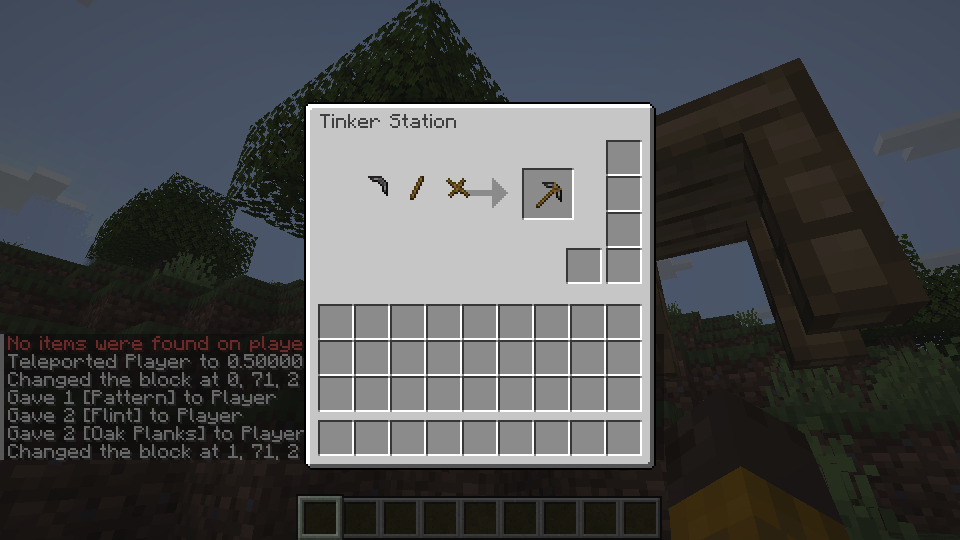
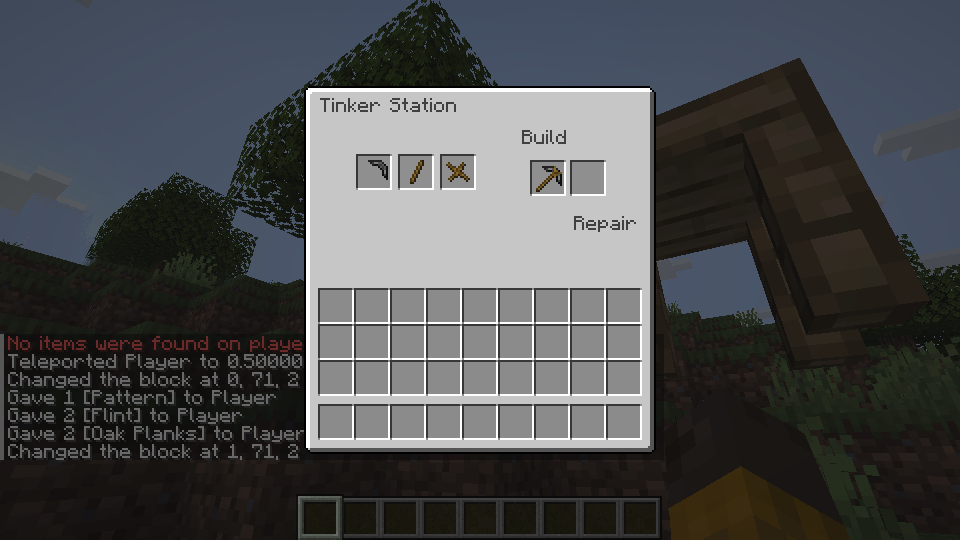
Correct station panel geometry and atlas slot rendering

Changed region(s): [[0.3125, 0.237, 0.6875, 0.8889], [0.3125, 0.1481, 0.6875, 0.237], [0.5312, 0.237, 0.5938, 0.2667]]

diff --git a/tests/game/stations.py b/tests/game/stations.py
@@ -14,20 +14,29 @@ def click(slot):g.call('click-slot',str(slot));g.call('wait','3')
 def hotbar(item):return next(x['slot'] for x in g.call('inventory')['hotbar'] if x.get('item')==item)
 def carried():return g.call('menu')['carried'] or {}
 def cmd(value):return g.call('command',value)
+def hover(slot, name):
+ node = next(n for n in g.call('ui')['widgets'] if n['id'] == f'slot-{slot}')
+ x,y,_,_ = node['bounds']
+ g.call('scroll-at',str(x+8),str(y+8),'0');g.call('wait','5')
+ g.call('screenshot',str(run/name))
 try:
  g.ready()
  for command in ('clear @s','tp @s 0.5 71 0.5','setblock 0 71 2 tconstruct:part_builder','give @s tconstruct:pattern 1','give @s minecraft:flint 2','give @s minecraft:oak_planks 2'):cmd(command)
  time.sleep(1);g.call('interact','0','71','2')
+ g.call('screenshot',str(run/'part-builder-empty.png'))
  click(hotbar('tconstruct:pattern'));click(300);click(hotbar('minecraft:flint'));click(301)
  g.call('screenshot',str(run/'part-builder.png'))
+ hover(301,'part-builder-hover.png')
  click(324);assert carried().get('item')=='tconstruct:flint_pick_head'
  click(324);assert carried().get('count')==1
  click(3);click(hotbar('minecraft:oak_planks'));click(301)
  click(325);assert carried().get('item')=='tconstruct:wood_handle';click(4)
  click(326);assert carried().get('item')=='tconstruct:wood_binding';click(5)
  g.call('close');cmd('setblock 1 71 2 tconstruct:tinker_station');time.sleep(1);g.call('interact','1','71','2')
+ g.call('screenshot',str(run/'tinker-station-empty.png'))
  for target,item in [(300,'tconstruct:flint_pick_head'),(301,'tconstruct:wood_handle'),(302,'tconstruct:wood_binding')]:click(hotbar(item));click(target)
  g.call('screenshot',str(run/'tinker-station.png'))
+ hover(300,'tinker-station-hover.png')
  click(324);assert carried().get('item')=='tconstruct:flint_pickaxe';click(0);g.call('close')
  cmd("item replace entity @s weapon.mainhand with tconstruct:flint_pickaxe[minecraft:damage=84,minecraft:custom_name='\"Blade\"',minecraft:custom_data={proof:17}]")
  cmd('give @s minecraft:flint 2');g.call('wait','10');held=g.call('inventory')['held'];print('before repair',held,flush=True)
@@ -37,7 +46,8 @@ try:
  g.call('wait','10');held=g.call('inventory')['held'];print('after repair',held,flush=True);assert 'Blade' in held.get('components','') and 'proof' in held.get('components','')
  g.call('close');g.call('save');g.stop();g.cleanup();g=Game(a,run,'Player',in_frame=a.in_frame,resume=True);g.ready()
  held=g.call('inventory')['held'];assert held.get('damage',0)==0 and 'Blade' in held.get('components','') and 'proof' in held.get('components','')
- g.call('interact','0','71','2');items={s['slot']:s['stack'] for s in g.call('menu')['slots']}
+ g.call('interact','0','71','2');g.call('wait','10');g.call('screenshot',str(run/'part-builder-reopened.png'))
+ items={s['slot']:s['stack'] for s in g.call('menu')['slots']}
  assert items[300]['item']=='tconstruct:pattern'
  g.stop();print('PASS station assembly, repair, data and save/reload',flush=True)
 finally:g.cleanup()

diff --git a/mixins/tconstruct/part-draw.rs b/mixins/tconstruct/part-draw.rs
@@ -3,9 +3,27 @@ fn draw_tconstruct_station(game: &crate::game::Game<'_>, batch: &mut horizon_cli
     let atlas = &game.gui.atlas;
     let texture = if station { "gui/tconstruct_tinker_station" } else { "gui/tconstruct_part_builder" };
     batch.sprite_region(atlas, texture, [ox, oy, 176.0, 184.0], 256.0, 256.0);
+    // The atlas contains reusable elements outside the 176x184 background.
+    let part = |batch: &mut horizon_client::hud::HudBatch, sx: f32, sy: f32, x: f32, y: f32, color: u32| {
+        if let Some(mut r) = atlas.sprites.get(texture).copied() {
+            let (du, dv) = ((r.u1 - r.u0) / r.w as f32, (r.v1 - r.v0) / r.h as f32);
+            r.u0 += sx * du; r.v0 += sy * dv;
+            r.u1 = r.u0 + 18.0 * du; r.v1 = r.v0 + 18.0 * dv;
+            batch.rect_uv(ox + x, oy + y, 18.0, 18.0, r, color);
+        }
+    };
     let title = if station { "Tinker Station" } else { "Part Builder" };
     batch.text(atlas, title, ox + 8.0, oy + 6.0, horizon_client::hud::rgba(64, 64, 64, 255), false);
     if station {
+        // The original atlas uses separately drawn slot backgrounds. Clear its
+        // unused fixed result/side-slot artwork before laying out our two actions.
+        batch.fill(atlas, ox + 77.0, oy + 16.0, 96.0, 79.0, horizon_client::hud::rgba(198, 198, 198, 255));
+        for (x, y) in [(26.0, 34.0), (47.0, 34.0), (68.0, 34.0), (113.0, 37.0), (133.0, 37.0)] {
+            part(batch, 176.0, 0.0, x, y, horizon_client::hud::rgba(255, 255, 255, 71));
+            part(batch, 194.0, 0.0, x, y, u32::MAX);
+        }
+        batch.text(atlas, "Build", ox + 109.0, oy + 22.0, horizon_client::hud::rgba(64, 64, 64, 255), false);
+        batch.text(atlas, "Repair", ox + 135.0, oy + 65.0, horizon_client::hud::rgba(64, 64, 64, 255), false);
         if let Some(horizon_client::containers::BlockEntity::Chest(slots)) = game.container_kind() {
             for (x, action) in [(114.0, 24), (134.0, 25)] {
                 let mut preview = slots.clone();
@@ -16,8 +34,9 @@ fn draw_tconstruct_station(game: &crate::game::Game<'_>, batch: &mut horizon_cli
             }
         }
     } else {
-        for (x, id) in [(60.0, "tconstruct:flint_pick_head"), (78.0, "tconstruct:wood_handle"), (96.0, "tconstruct:wood_binding")] {
-            game.draw_item(batch, &horizon_client::items::ItemStack::new(id, 1), ox + x, oy + 18.0);
+        for x in [51.0, 69.0, 87.0] { part(batch, 176.0, 15.0, x, 15.0, u32::MAX); }
+        for (x, id) in [(52.0, "tconstruct:flint_pick_head"), (70.0, "tconstruct:wood_handle"), (88.0, "tconstruct:wood_binding")] {
+            game.draw_item(batch, &horizon_client::items::ItemStack::new(id, 1), ox + x, oy + 16.0);
         }
     }
     std::ops::ControlFlow::Break(())

diff --git a/tests/game/harness.py b/tests/game/harness.py
@@ -12,9 +12,10 @@ class Game:
                         HORIZON_TELEMETRY_URL='off', RUST_MIN_STACK='16777216')
         for key in ('HORIZON_HOME','HORIZON_LAUNCHER_HOME','XDG_DATA_HOME','XDG_CONFIG_HOME'):
             folder = self.root / key.lower(); folder.mkdir(exist_ok=resume); self.env[key] = str(folder)
+        width, height = os.environ.get('HORIZON_TEST_SIZE', '960x540').split('x', 1)
         command = [str(args.game.resolve()), '--resources', str(args.resources.resolve()),
                    '--control-socket', str(self.endpoint), '--test-terrain', '--render-distance', '2',
-                   '--offscreen', '--width', '960', '--height', '540', '--name', label]
+                   '--offscreen', '--width', width, '--height', height, '--name', label]
         command += ['--server', server] if server else ['--world','Probe','--seed','42','--creative']
         if in_frame: command.append('--in-frame')
         self.log = (self.root / 'game.log').open('a' if resume else 'w')

diff --git a/mixins/tconstruct/part-layout.rs b/mixins/tconstruct/part-layout.rs
@@ -6,9 +6,9 @@ fn tconstruct_layout(game: &crate::game::Game<'_>, slot: usize) -> std::ops::Con
         300 => if station { (27.0, 35.0) } else { (8.0, 43.0) },
         301 => if station { (48.0, 35.0) } else { (29.0, 43.0) },
         302 if station => (69.0, 35.0),
-        324 => if station { (114.0, 38.0) } else { (60.0, 18.0) },
-        325 => if station { (134.0, 38.0) } else { (78.0, 18.0) },
-        326 if !station => (96.0, 18.0),
+        324 => if station { (114.0, 38.0) } else { (52.0, 16.0) },
+        325 => if station { (134.0, 38.0) } else { (70.0, 16.0) },
+        326 if !station => (88.0, 16.0),
         302..=326 => (-10000.0, -10000.0),
         _ => return std::ops::ControlFlow::Continue(()),
     };

diff --git a/tests/game/race_station.py b/tests/game/race_station.py
@@ -25,6 +25,8 @@ try:
   print(g.label,'interact',g.call('interact','0','71','2'),flush=True)
  click(h,0);click(h,300);click(h,1);click(h,301);click(h,2);click(h,302)
  wait('inputs shared',lambda:all(slots(g).get(300,{}).get('item')=='tconstruct:flint_pick_head' and slots(g).get(301,{}).get('item')=='tconstruct:wood_handle' and slots(g).get(302,{}).get('item')=='tconstruct:wood_binding' for g in games))
+ h.call('wait','20');q.call('wait','20')
+ h.call('screenshot',str(run/'host-station.png'));q.call('screenshot',str(run/'guest-station.png'))
  with ThreadPoolExecutor(max_workers=2) as pool:
   futures=[pool.submit(click,g,324) for g in games]
   for f in futures:f.result()

diff --git a/mixins/tconstruct/station-height.rs b/mixins/tconstruct/station-height.rs
@@ -1,0 +1,7 @@
+fn tconstruct_screen_height(game: &crate::game::Game<'_>) -> std::ops::ControlFlow<f32> {
+    if crate::game::tconstruct_ui::kind(game).is_some() {
+        std::ops::ControlFlow::Break(184.0)
+    } else {
+        std::ops::ControlFlow::Continue(())
+    }
+}

diff --git a/docs/validation.md b/docs/validation.md
@@ -76,3 +76,16 @@ integrated-server and in-frame modes, and the fixture message was present in
 each game log. Run the same test with
 `--game target/fixture-build/fast/horizon-client`; inspect `Player/game.log`
 in the printed run directory. Use a fresh output path for a new stage.
+
+### GUI rendering regression
+
+The 176×184 station panel is centered using its actual height. The Part Builder
+buttons and Tinker Station slot borders are cut from the original atlases; the
+station slot background uses the original 28% opacity. The prototype still
+uses direct part output buttons and a simplified station layout.
+
+At 960×540 (integrated server) and 640×360 (in-frame), visually inspected
+empty and populated panels, hovered slot tooltips, and the reopened Part
+Builder after save/reload. The station test exercised click targets, output
+collection and repair. The LAN test captured both clients after allowing frames
+to update and verified a single output under concurrent clicks.
